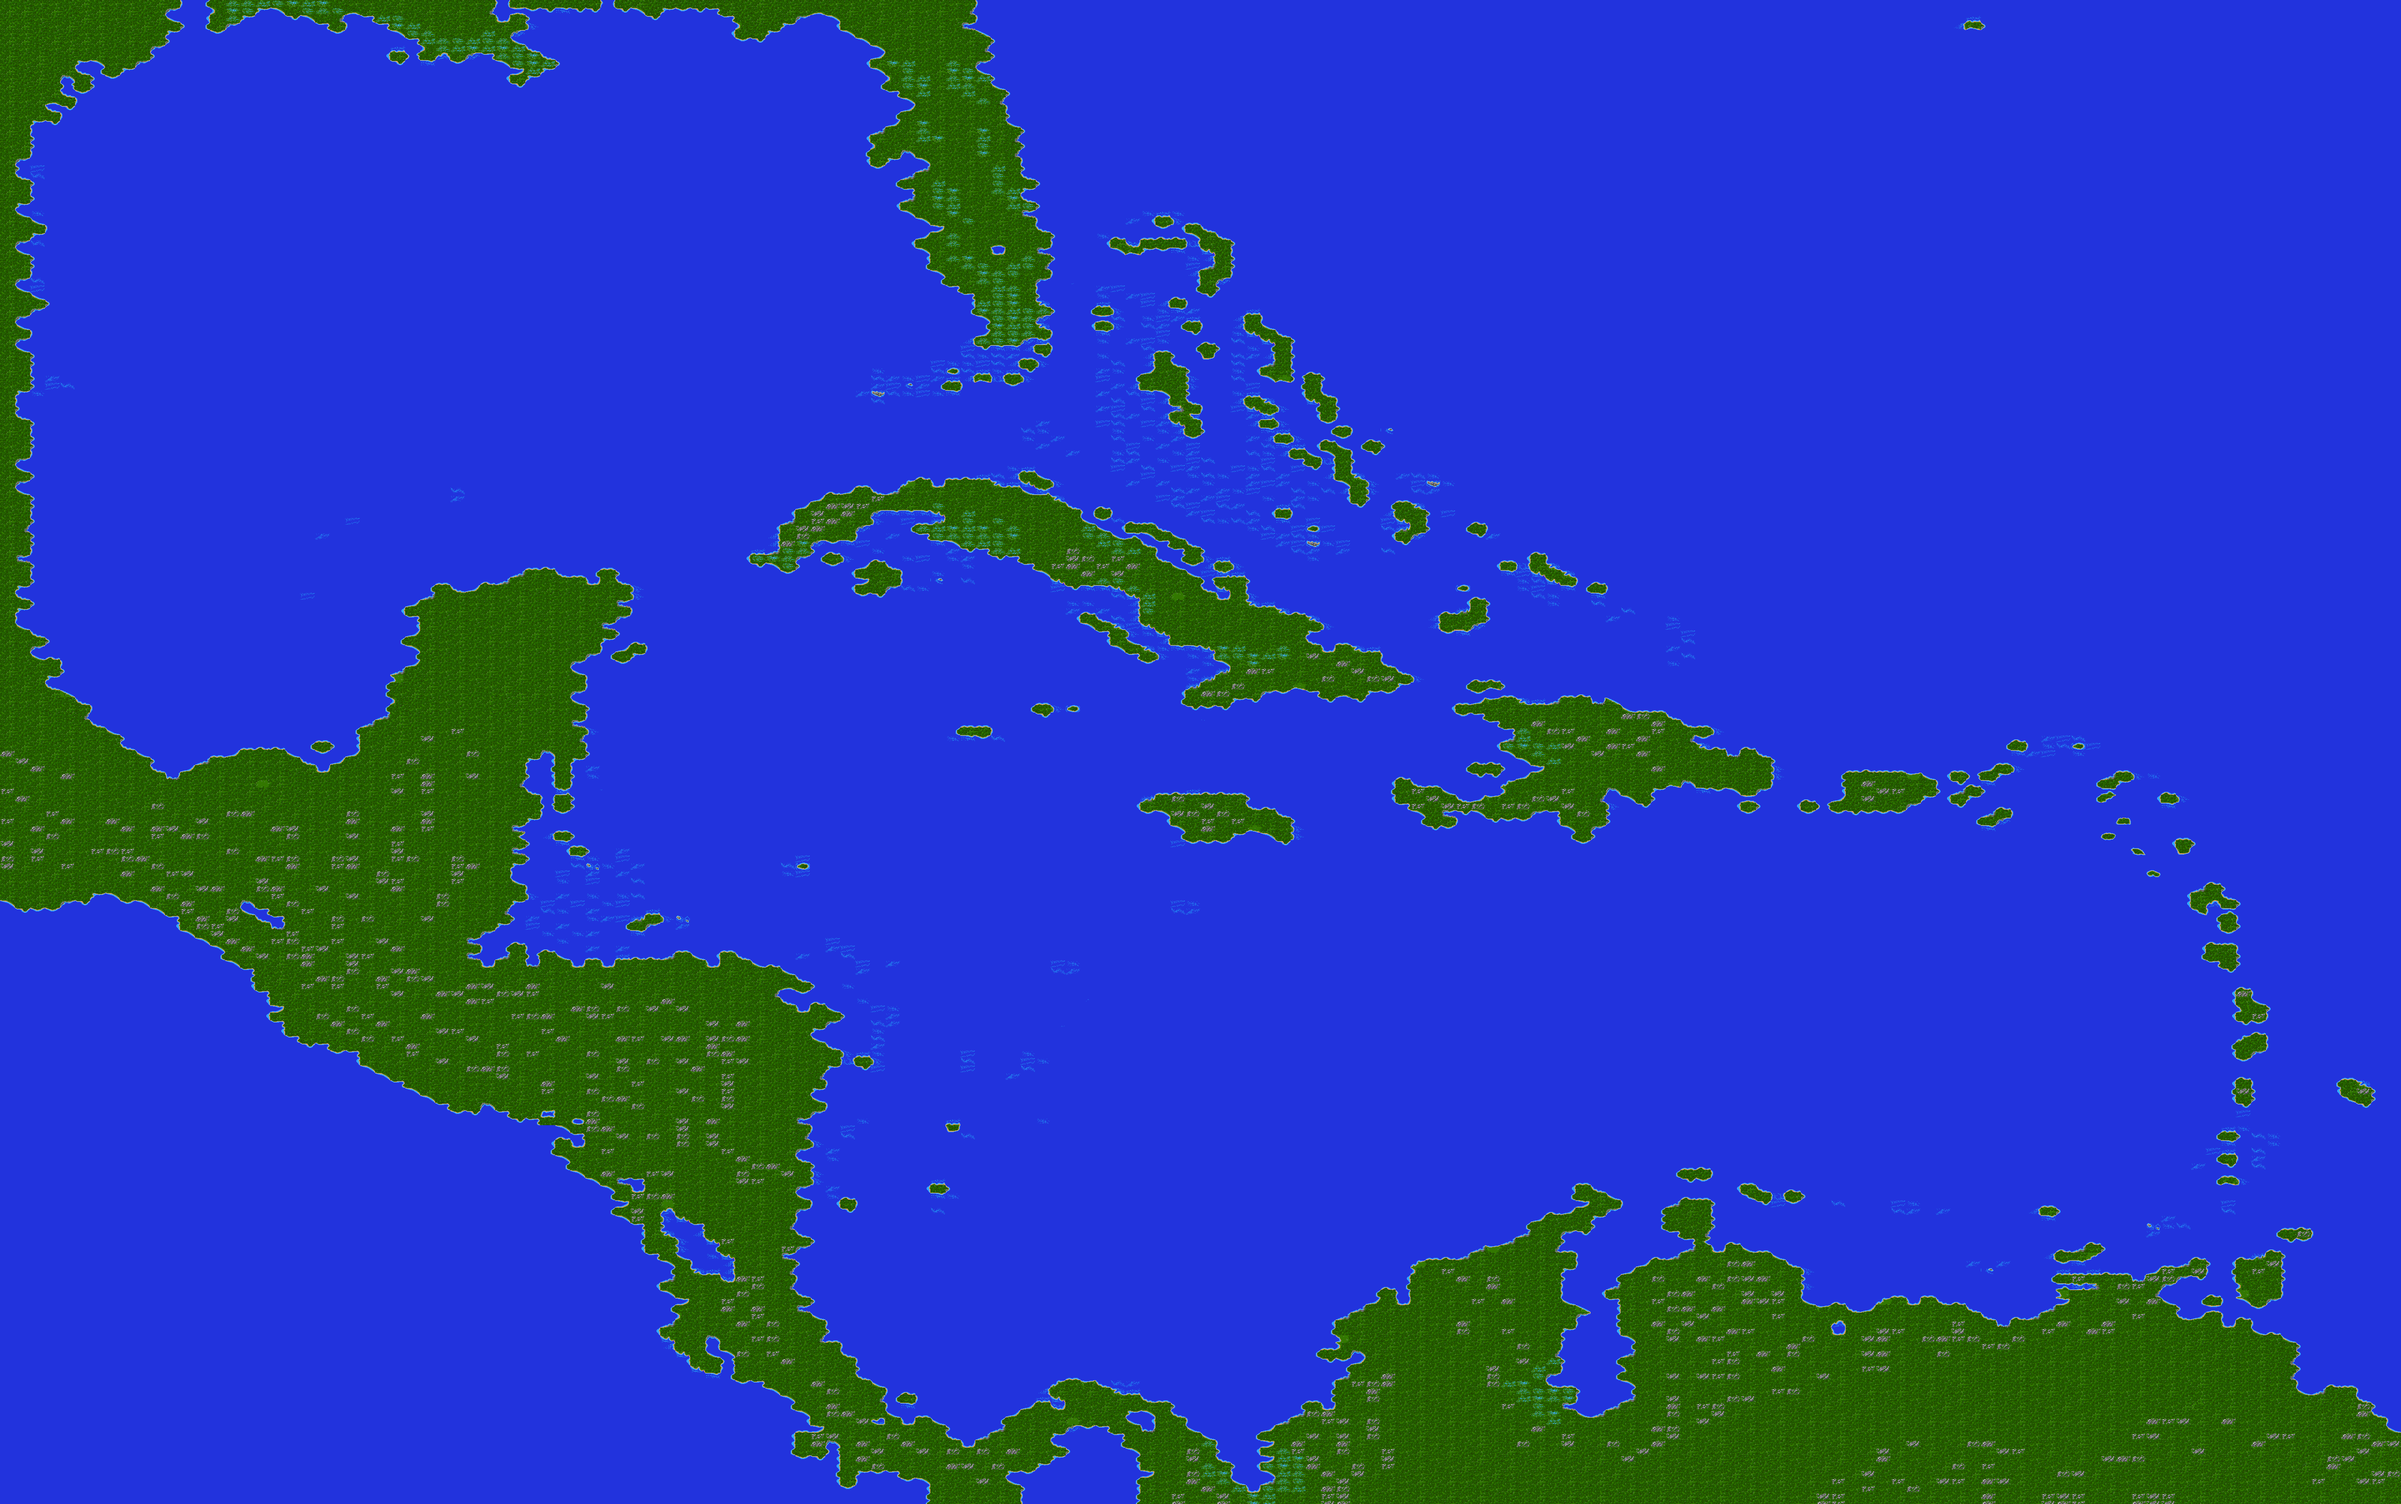
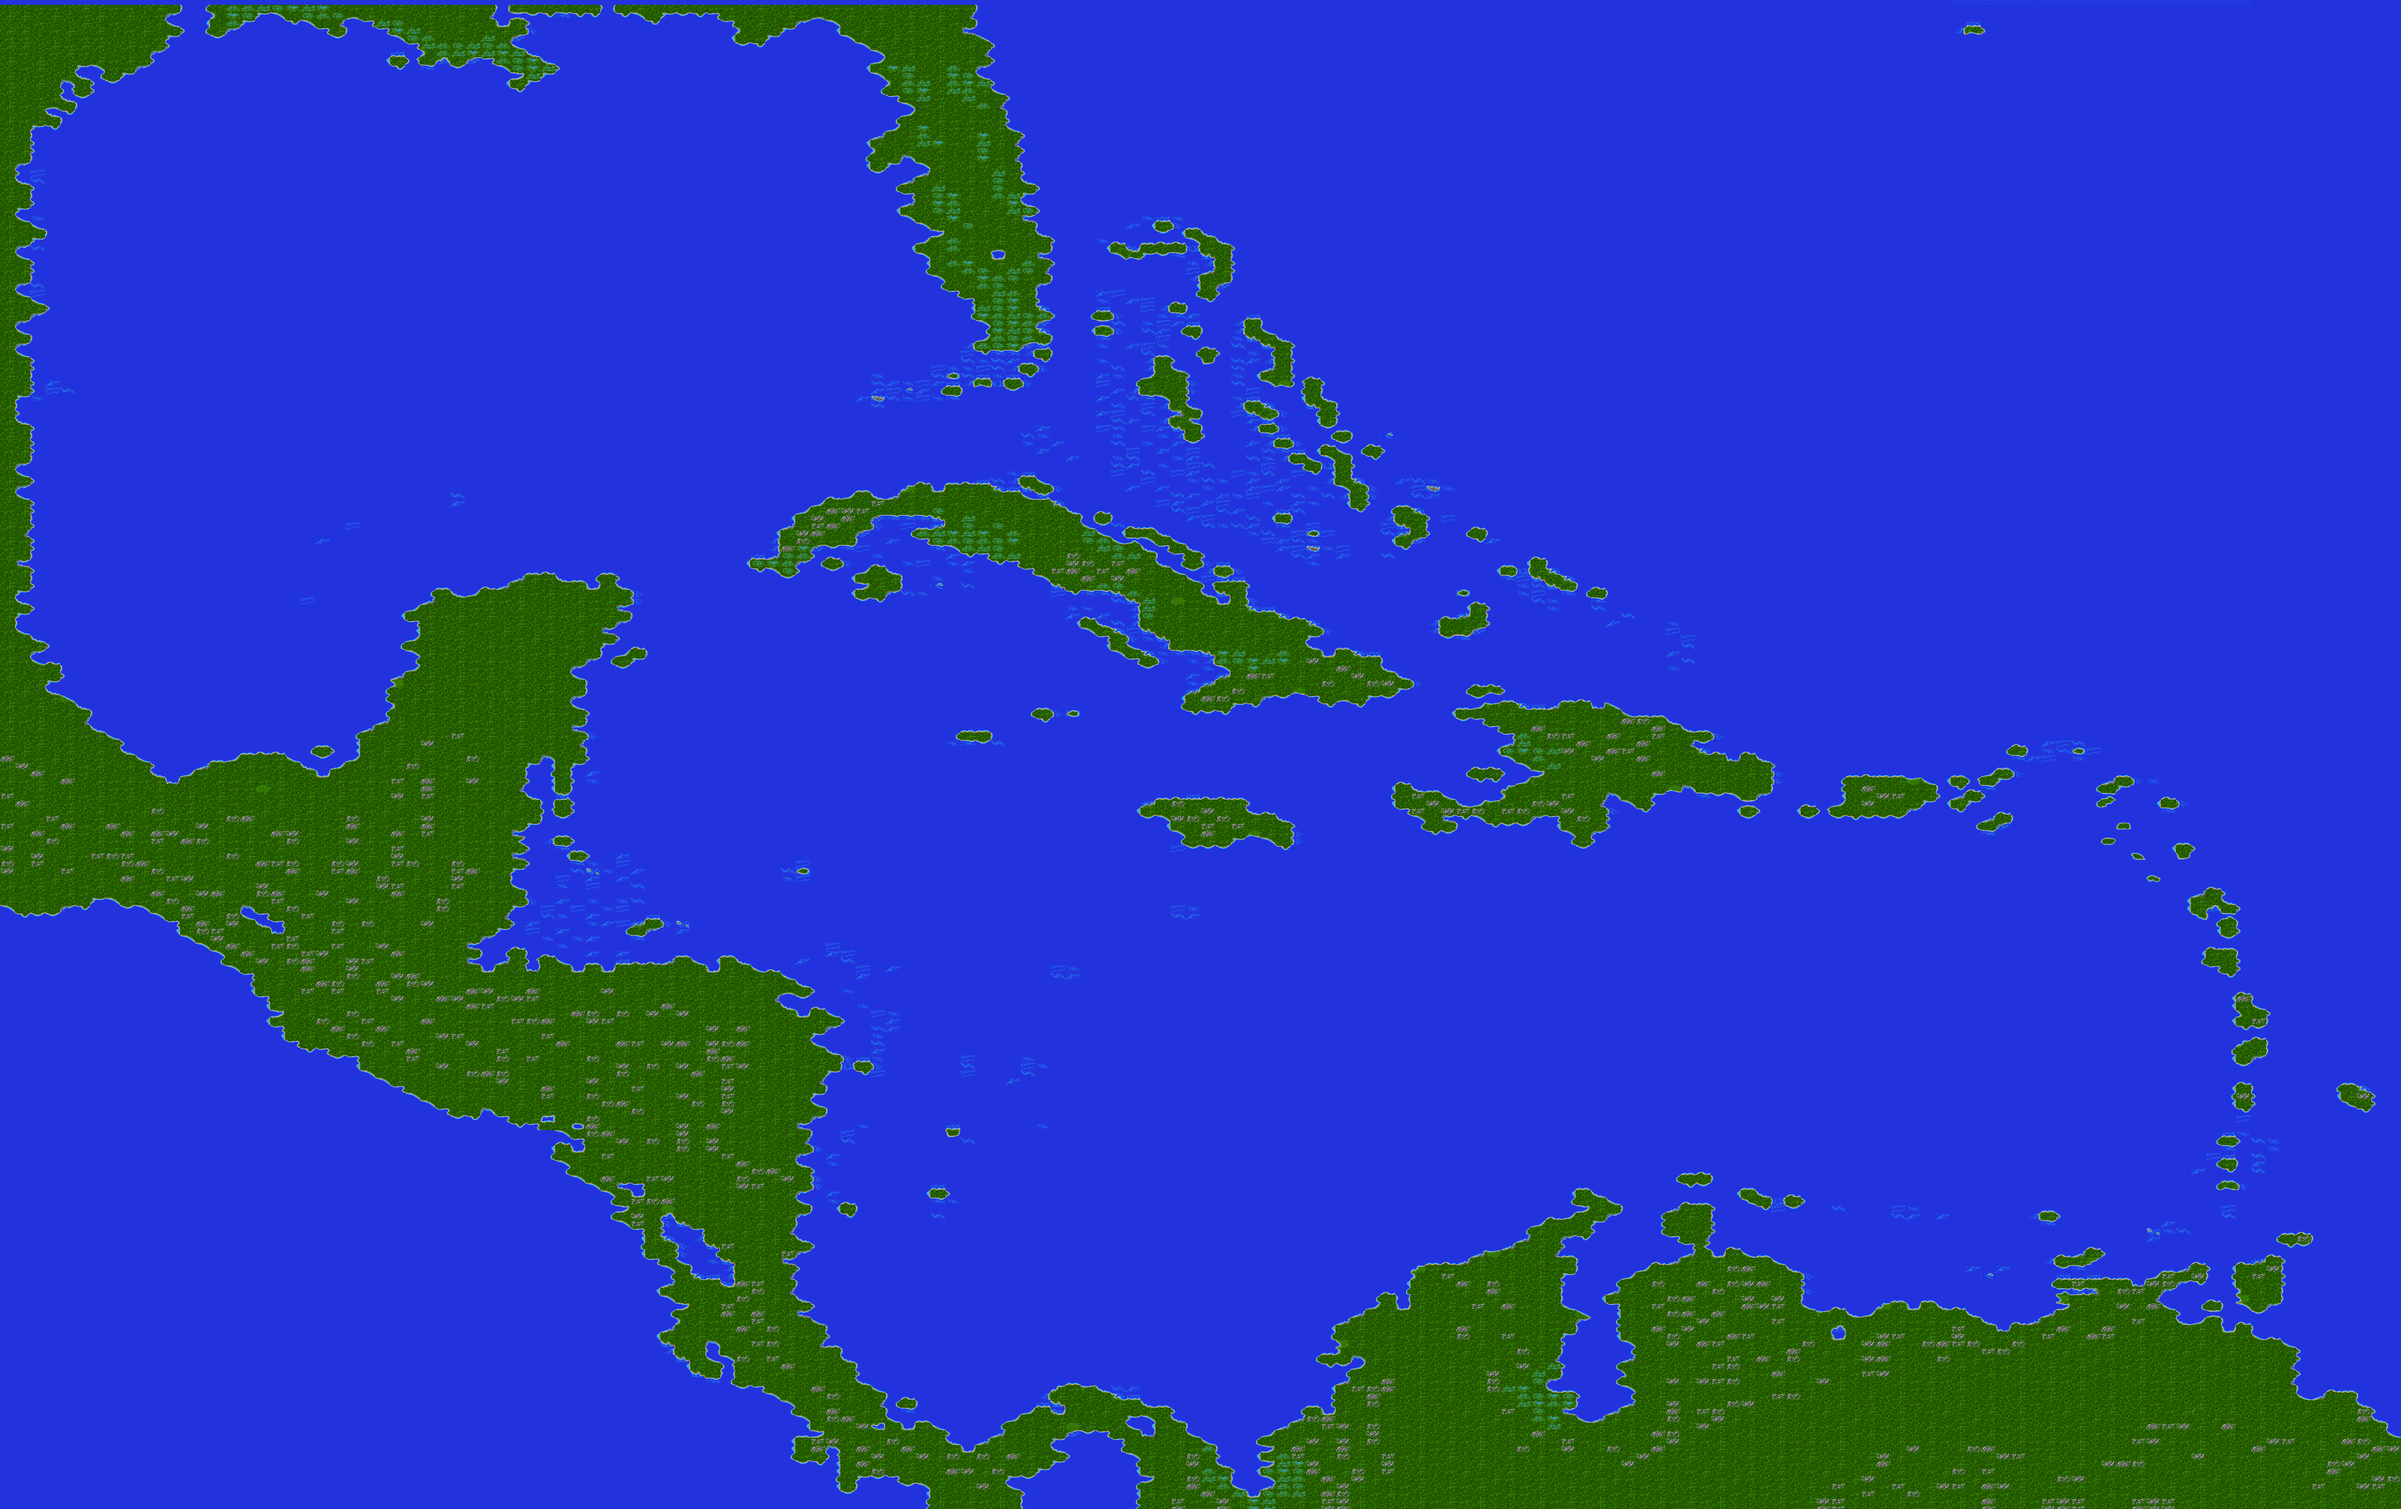
WIP Layers with dynamic labels
Replaced images with versions without labels, and made logic for switching labels wehen overlays changes.

Currently still a few bugs, let's iron those out over the next commits

diff --git a/public/map.js b/public/map.js
@@ -27,17 +27,17 @@ const mapBounds = [L.latLng(MAP_CONSTANTS.minLat, MAP_CONSTANTS.minLng), L.latLn
 
 // Layers
 const officialMap = L.imageOverlay('pirates_official_map.jpg', [L.latLng(30.500, -96.836), L.latLng(13.350, -56.836)]);
-const compiledMap = L.imageOverlay('map/PiratesMapFull.png', mapBounds);
+const compiledMap = L.imageOverlay('map/PiratesMapFullRetro.png', mapBounds);
 const baseMap = L.imageOverlay('map/PiratesMapBase.png', mapBounds);
 
 const mutuallyExclusiveOverlays = {
-    "All cities (all time periods)": L.imageOverlay('map/PiratesMapOverlayFull.png', mapBounds),
-    "1560 - The Silver Empire": L.imageOverlay('map/PiratesMapOverlay1560.png', mapBounds),
-    "1600 - Merchants and Smugglers": L.imageOverlay('map/PiratesMapOverlay1600.png', mapBounds),
-    "1620 - The New Colonists": L.imageOverlay('map/PiratesMapOverlay1620.png', mapBounds),
-    "1640 - War for Profit": L.imageOverlay('map/PiratesMapOverlay1640.png', mapBounds),
-    "1660 - The Buccaneer Heroes": L.imageOverlay('map/PiratesMapOverlay1660.png', mapBounds),
-    "1680 - Pirates' Sunset": L.imageOverlay('map/PiratesMapOverlay1680.png', mapBounds),
+    "All cities (all time periods)": L.imageOverlay('map/PiratesMapOverlayFullNoLabel.png', mapBounds),
+    "1560 - The Silver Empire": L.imageOverlay('map/PiratesMapOverlay1560NoLabel.png', mapBounds),
+    "1600 - Merchants and Smugglers": L.imageOverlay('map/PiratesMapOverlay1600NoLabel.png', mapBounds),
+    "1620 - The New Colonists": L.imageOverlay('map/PiratesMapOverlay1620NoLabel.png', mapBounds),
+    "1640 - War for Profit": L.imageOverlay('map/PiratesMapOverlay1640NoLabel.png', mapBounds),
+    "1660 - The Buccaneer Heroes": L.imageOverlay('map/PiratesMapOverlay1660NoLabel.png', mapBounds),
+    "1680 - Pirates' Sunset": L.imageOverlay('map/PiratesMapOverlay1680NoLabel.png', mapBounds),
 };
 
 const latlngLayer = L.latlngGraticule({
@@ -76,12 +76,20 @@ if (storage) {
 }
 
 // Map Initialization
+const initialLayers = [baseMaps[storage.baseLayer]];
+if (storage.baseLayer === "Compile Map (dynamic)" && storage.defaultOverlay) {
+    initialLayers.push(mutuallyExclusiveOverlays[storage.defaultOverlay]);
+}
+if (storage.latlngOverlay && storage.baseLayer !== "Official Map") {
+    initialLayers.push(latlngLayer);
+}
+
 const map = L.map('map', {
     crs: L.CRS.PiratesCRS,
     minZoom: 2,
     maxZoom: 6,
     wheelPxPerZoomLevel: 20,
-    layers: [baseMaps[storage.baseLayer]]
+    layers: initialLayers
 });
 
 // City Layer
@@ -131,30 +139,51 @@ L.geoJSON(cities, {
 }).addTo(citiesLayer);
 citiesLayer.addTo(map);
 
-citiesLayer.hidePoints = function (bool) {
-    document.querySelectorAll('.citypoint').forEach(el => {
-        el.style.display = bool ? "none" : "";
-    });
-};
+function filterCities(era) {
+    const isDynamicBase = storage.baseLayer === "Compile Map (dynamic)";
+    const isAll = isNaN(era);
+
+    for (let name in citiesLayer.cities) {
+        const city = citiesLayer.cities[name];
+        const visible = isDynamicBase && (isAll || (city.feature.properties.eras && city.feature.properties.eras.includes(era)));
+        
+        const el = city.getElement();
+        if (el) el.style.display = visible ? "" : "none";
+        
+        const tooltip = city.getTooltip();
+        if (tooltip) {
+            const tEl = tooltip.getElement();
+            if (tEl) tEl.style.display = visible ? "" : "none";
+        }
+    }
+}
+
+function removeWithTimeout(layer) {
+    setTimeout(() => map.removeLayer(layer), 10);
+}
 
 function reorderCities(era) {
     let c = {};
-    citiesLayer.getLayers()[0].eachLayer(e => {
-        c[e.feature.properties.name] = e;
-    });
+    for (let name in citiesLayer.cities) {
+        c[name] = citiesLayer.cities[name];
+    }
     cities.features.filter(e => e.properties.link && e.properties.eras.includes(era))
         .forEach(e => {
             let current = e.properties.name;
             let other = e.properties.link;
             if (c[current] && c[other]) {
-                c[current].getElement().before(c[other].getElement());
+                const curEl = c[current].getElement();
+                const othEl = c[other].getElement();
+                if (curEl && othEl) curEl.before(othEl);
             }
         });
 }
 
 // Layer Control Handling
 if (map.hasLayer(baseMap) && storage.defaultOverlay) {
-    mutuallyExclusiveOverlays[storage.defaultOverlay].addTo(map);
+    // The layer is already in initialLayers, so we just need to sync the filter and UI
+    let era = parseInt(storage.defaultOverlay.split(" ")[0]);
+    filterCities(era);
 }
 if (!map.hasLayer(officialMap) && storage.latlngOverlay) {
     latlngLayer.addTo(map);
@@ -175,24 +204,78 @@ layerControl._container.classList.add("overlays");
 const otherOverlays = { "Lat/Long lines": latlngLayer };
 let otherOverlaysControl = L.control.layers(null, otherOverlays, { collapsed: false }).addTo(map);
 
-function removeWithTimeout(layer) {
-    setTimeout(() => map.removeLayer(layer), 10);
+function updateOverlayUI() {
+    // Slight delay to ensure Leaflet has updated the control's inner HTML
+    setTimeout(() => {
+        const overlayContainer = document.querySelector(".overlays");
+        if (!overlayContainer) return;
+        
+        const inputs = overlayContainer.querySelectorAll("input");
+        const eraNames = Object.keys(mutuallyExclusiveOverlays);
+        
+        inputs.forEach(input => {
+            const labelEl = input.closest('label');
+            if (!labelEl) return;
+            const label = labelEl.textContent.trim();
+            
+            if (eraNames.includes(label)) {
+                const isActive = map.hasLayer(mutuallyExclusiveOverlays[label]);
+                input.checked = isActive; 
+                input.disabled = isActive; // Disable active to prevent unchecking
+                labelEl.style.cursor = isActive ? "default" : "pointer";
+                labelEl.style.opacity = isActive ? "0.7" : "1";
+            }
+        });
+    }, 100);
 }
+
+let isInternalSwitch = false;
 
 map.on('overlayadd', function (event) {
     if (Object.keys(mutuallyExclusiveOverlays).includes(event.name)) {
-        storage.defaultOverlay = event.name;
-        for (let o in mutuallyExclusiveOverlays) {
-            if (event.name !== o && map.hasLayer(mutuallyExclusiveOverlays[o])) {
-                removeWithTimeout(mutuallyExclusiveOverlays[o]);
+        if (isInternalSwitch) return;
+        
+        // Defer removals to next tick to avoid Leaflet race conditions
+        setTimeout(() => {
+            isInternalSwitch = true;
+            try {
+                storage.defaultOverlay = event.name;
+                for (let o in mutuallyExclusiveOverlays) {
+                    if (event.name !== o && map.hasLayer(mutuallyExclusiveOverlays[o])) {
+                        map.removeLayer(mutuallyExclusiveOverlays[o]);
+                    }
+                }
+                let era = parseInt(event.name.split(" ")[0]);
+                filterCities(era);
+                if (era) reorderCities(era);
+                updateOverlayUI();
+            } finally {
+                isInternalSwitch = false;
             }
-        }
+        }, 0);
     }
-    let era = parseInt(event.name.split(" ")[0]);
-    if (era) reorderCities(era);
-    storage.latlngOverlay = map.hasLayer(latlngLayer);
+    if (event.name === "Lat/Long lines") storage.latlngOverlay = true;
     localStorage.setItem("storage", JSON.stringify(storage));
 });
+
+map.on('overlayremove', function (event) {
+    if (isInternalSwitch) return;
+    
+    // Ignore unchecking of era overlays (checkbox is disabled, but Leaflet logic might still trigger)
+    if (Object.keys(mutuallyExclusiveOverlays).includes(event.name)) {
+        event.layer.addTo(map);
+    }
+    
+    if (event.name === "Lat/Long lines") storage.latlngOverlay = false;
+    localStorage.setItem("storage", JSON.stringify(storage));
+});
+
+// Final Sync for initial load
+if (storage.defaultOverlay) {
+    let era = parseInt(storage.defaultOverlay.split(" ")[0]);
+    filterCities(era);
+}
+updateOverlayUI();
 
 let lastBaseLayer = baseMaps[storage.baseLayer];
 map.on('baselayerchange', function (event) {
@@ -211,6 +294,7 @@ map.on('baselayerchange', function (event) {
     if (event.layer === baseMap && lastBaseLayer) {
         if (storage.defaultOverlay) map.addLayer(mutuallyExclusiveOverlays[storage.defaultOverlay]);
         for (let o in mutuallyExclusiveOverlays) layerControl.addOverlay(mutuallyExclusiveOverlays[o], o);
+        updateOverlayUI();
     }
     if (lastBaseLayer === officialMap) {
         if (storage.latlngOverlay) map.addLayer(latlngLayer);
@@ -218,6 +302,11 @@ map.on('baselayerchange', function (event) {
     }
     lastBaseLayer = event.layer;
     storage.baseLayer = Object.keys(baseMaps).find(key => baseMaps[key] === lastBaseLayer);
+    
+    // Refresh city filter when base layer changes (e.g. to hide labels on Static maps)
+    let era = parseInt(storage.defaultOverlay.split(" ")[0]);
+    filterCities(era);
+    
     localStorage.setItem("storage", JSON.stringify(storage));
 });
 
